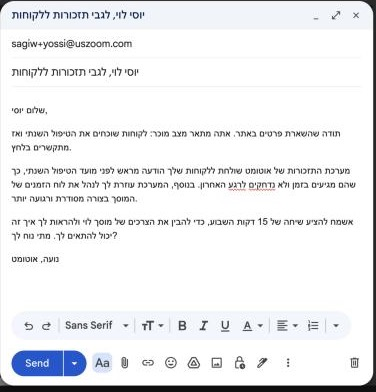
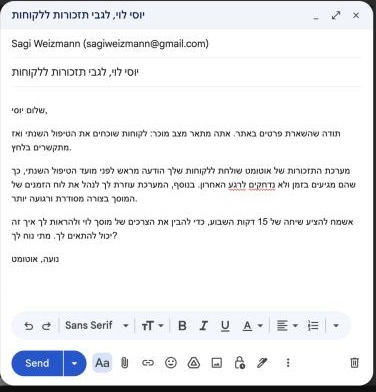
Session 4: use sagiweizmann@gmail.com in lead sheet and draft screenshots instead of uszoom addresses

Changed region(s): [[0.0293, 0.0918, 0.5559, 0.1224]]

diff --git a/site/session04/slides.html b/site/session04/slides.html
@@ -1217,7 +1217,7 @@ body.ov-on #ov{display:block}
   <div class="s-kicker">כך זה נראה ב-Make · מהריצה האמיתית</div>
   <h2>הגיליון שממנו הכול מתחיל</h2>
   <div class="s-body mid">
-    <figure class="shot" style="max-width:1000px;margin:0 auto"><img src="../assets/make/s04-sheet-leads.jpg" alt="גיליון Google Sheets עם שני לידים: דנה ויוסי"><figcaption>שורת כותרות + שני לידים. הכתובות הן של המרצה עם <code>+</code> — אף לקוח אמיתי לא מקבל מייל. עמודת <code>status</code> ריקה.</figcaption></figure>
+    <figure class="shot" style="max-width:1000px;margin:0 auto"><img src="../assets/make/s04-sheet-leads.jpg" alt="גיליון Google Sheets עם שני לידים: דנה ויוסי"><figcaption>שורת כותרות + שני לידים. בשתי השורות הכתובת היא של המרצה — אף לקוח אמיתי לא מקבל מייל. עמודת <code>status</code> ריקה.</figcaption></figure>
   </div>
   <aside class="notes"><ul><li>זה הגיליון האמיתי שעליו רץ התרחיש.</li></ul></aside>
 </section>
